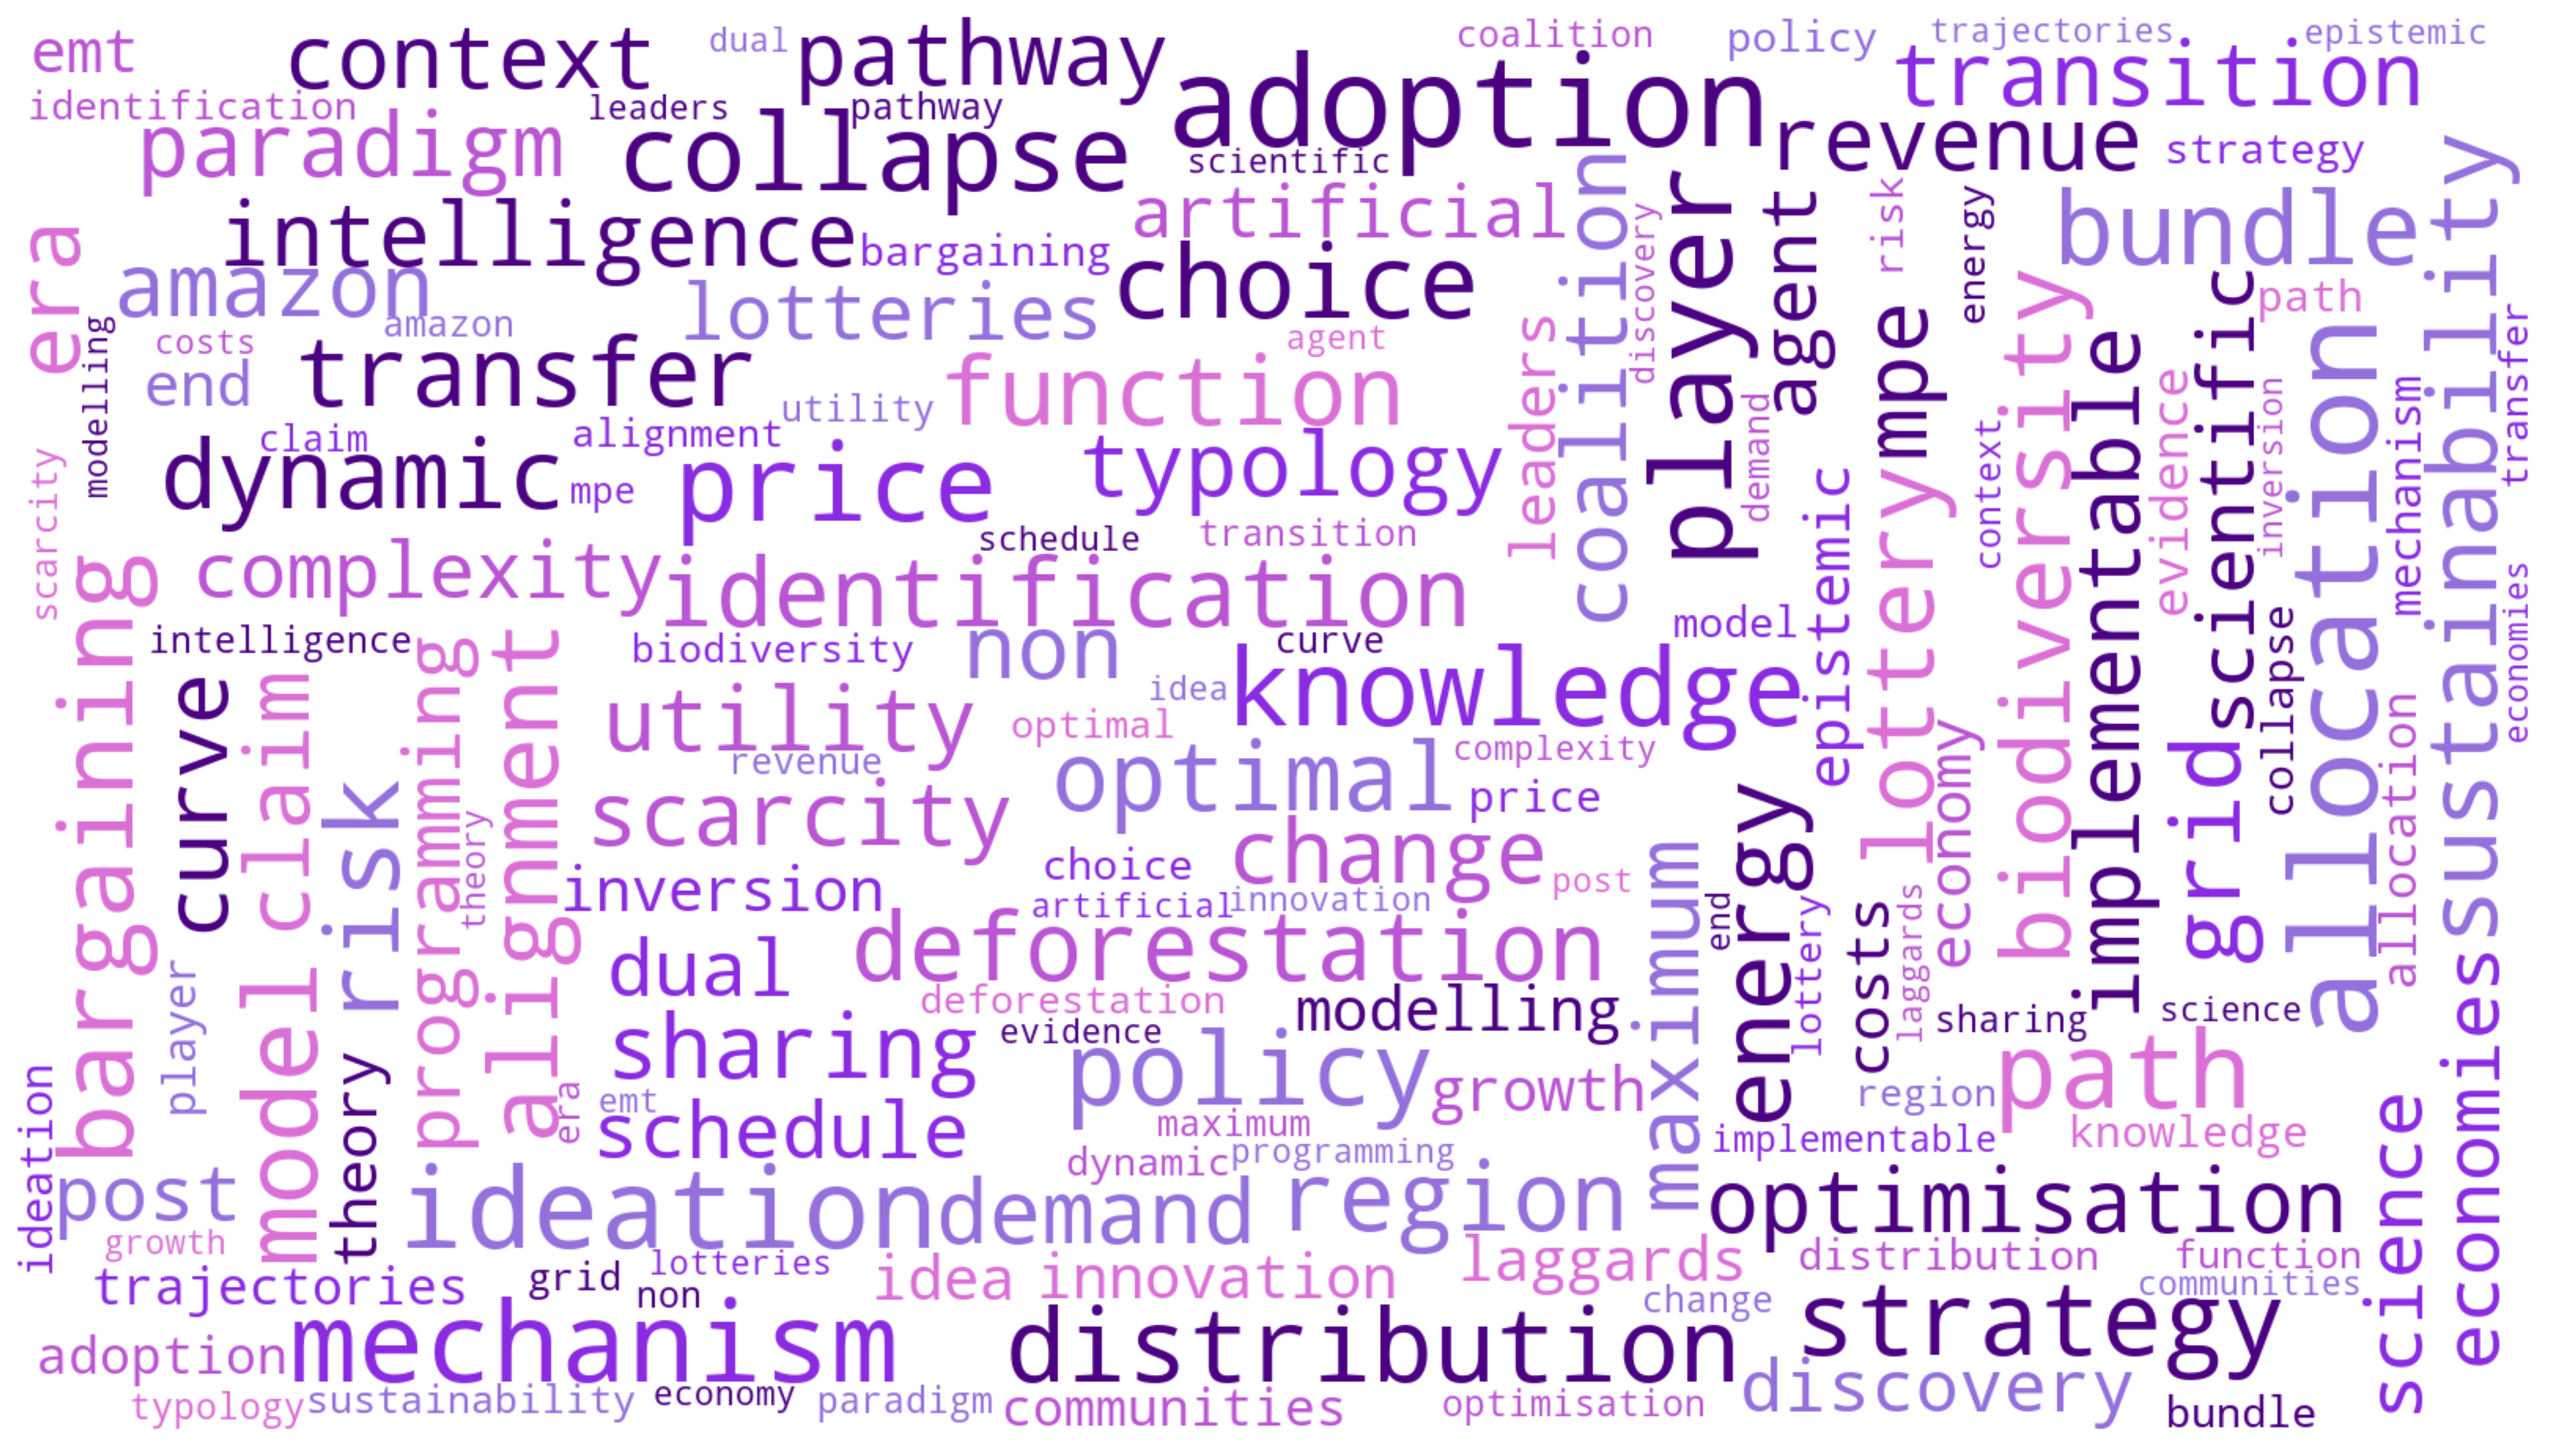
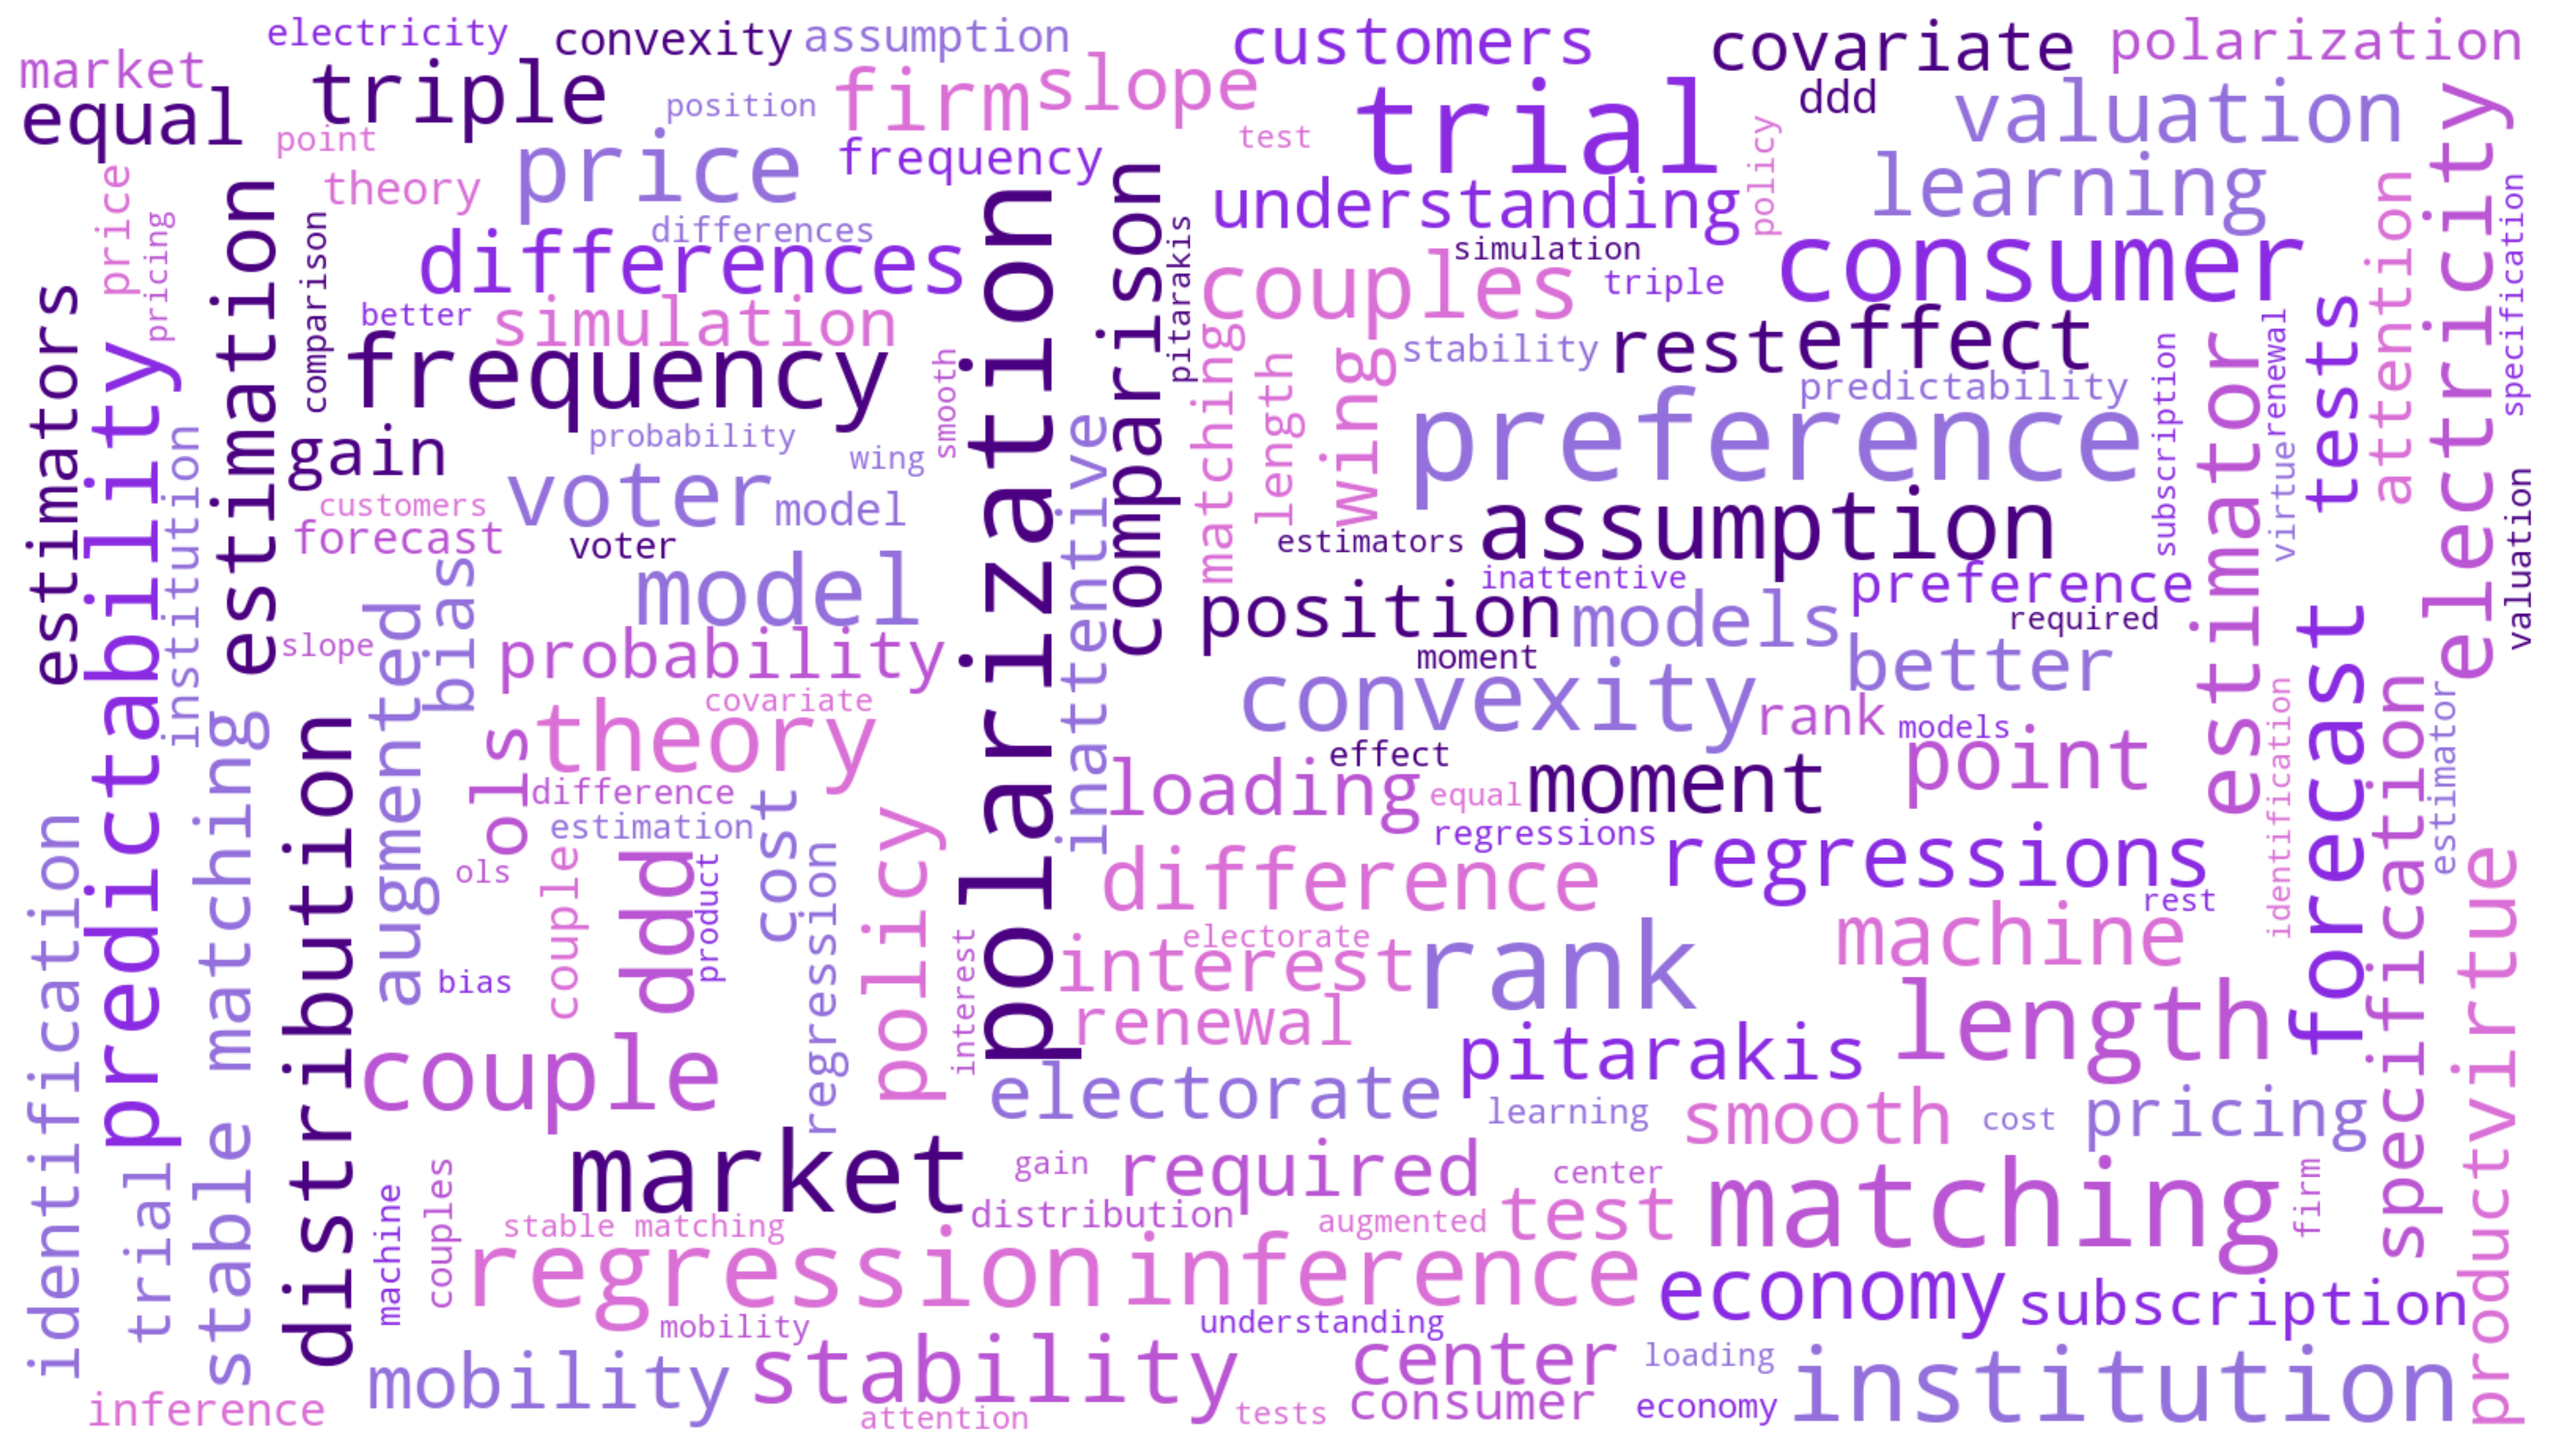
Gen audio

diff --git a/backend/scripts/daily_feed/arxiv_search_page.html b/backend/scripts/daily_feed/arxiv_search_page.html
@@ -151,9 +151,9 @@
 
     <div class="columns">
       <div class="column is-two-thirds-tablet">
-        <p style="margin-bottom: .5em">Query: <a href="/search/advanced?terms-0-operator=AND&amp;terms-0-term=&amp;terms-0-field=title&amp;classification-physics_archives=all&amp;classification-include_cross_list=include&amp;date-year=&amp;date-filter_by=date_range&amp;date-from_date=2025-07-09&amp;date-to_date=2025-07-10&amp;date-date_type=submitted_date&amp;abstracts=show&amp;size=50&amp;order=-submitted_date&amp;start=1000">order: -submitted_date; size: 50; page_start: 1000; date_range: from 2025-07-09 to 2025-07-10; include_cross_list: True</a></p>
+        <p style="margin-bottom: .5em">Query: <a href="/search/advanced?terms-0-operator=AND&amp;terms-0-term=&amp;terms-0-field=title&amp;classification-physics_archives=all&amp;classification-include_cross_list=include&amp;date-year=&amp;date-filter_by=date_range&amp;date-from_date=2025-07-10&amp;date-to_date=2025-07-11&amp;date-date_type=submitted_date&amp;abstracts=show&amp;size=50&amp;order=-submitted_date&amp;start=1000">order: -submitted_date; size: 50; page_start: 1000; date_range: from 2025-07-10 to 2025-07-11; include_cross_list: True</a></p>
         <div class="buttons">
-          <a class="button is-link" href="/search/advanced?terms-0-operator=AND&amp;terms-0-term=&amp;terms-0-field=title&amp;classification-physics_archives=all&amp;classification-include_cross_list=include&amp;date-year=&amp;date-filter_by=date_range&amp;date-from_date=2025-07-09&amp;date-to_date=2025-07-10&amp;date-date_type=submitted_date&amp;abstracts=show&amp;size=50&amp;order=-submitted_date&amp;start=1000">Refine query</a><a class="button" href="/search/advanced">New search</a>
+          <a class="button is-link" href="/search/advanced?terms-0-operator=AND&amp;terms-0-term=&amp;terms-0-field=title&amp;classification-physics_archives=all&amp;classification-include_cross_list=include&amp;date-year=&amp;date-filter_by=date_range&amp;date-from_date=2025-07-10&amp;date-to_date=2025-07-11&amp;date-date_type=submitted_date&amp;abstracts=show&amp;size=50&amp;order=-submitted_date&amp;start=1000">Refine query</a><a class="button" href="/search/advanced">New search</a>
         </div>
       </div>
       <div class="column is-one-third-tablet is-hidden-mobile">

diff --git a/backend/scripts/daily_feed/copy_to_frontend.py b/backend/scripts/daily_feed/copy_to_frontend.py
@@ -19,6 +19,13 @@ from datetime import datetime, timedelta
 import glob
 import re
 
+# Import audio generation modules
+from kokoro import KPipeline
+import soundfile as sf
+
+# Initialize the audio pipeline
+audio_pipeline = KPipeline(lang_code='a')
+
 def get_frontend_public_dir():
     """Get the path to the frontend's public directory."""
     # From the script location: backend/scripts/daily_feed/
@@ -87,8 +94,69 @@ def extract_summary_title_and_phrase(markdown_content: str, filename: str):
     
     return 'Summary', None
 
-def read_summary_files_with_metadata(summaries_dir: Path, phrases_summary_data):
-    """Read all markdown summary files and return their contents with paper counts."""
+def clean_content_for_audio(content: str):
+    """Remove hyperlinks and other unwanted formatting from content for audio generation."""
+    if not content:
+        return ""
+    
+    # Remove markdown hyperlinks in format [text](url)
+    cleaned_content = re.sub(r'\[([^\]]+)\]\([^\)]+\)', r'\1', content)
+    
+    # Remove any remaining markdown formatting that might interfere with audio
+    # Remove headers (# ## ###)
+    cleaned_content = re.sub(r'^#+\s+', '', cleaned_content, flags=re.MULTILINE)
+    
+    # Remove bold/italic formatting
+    cleaned_content = re.sub(r'\*\*([^*]+)\*\*', r'\1', cleaned_content)
+    cleaned_content = re.sub(r'\*([^*]+)\*', r'\1', cleaned_content)
+    
+    # Remove extra whitespace and newlines
+    cleaned_content = re.sub(r'\n\s*\n', '\n\n', cleaned_content)
+    cleaned_content = cleaned_content.strip()
+    
+    return cleaned_content
+
+def generate_audio_for_summary(content: str, title: str, category_name: str, phrase: str, daily_feed_dir: Path):
+    """Generate audio file for a summary and return the relative path."""
+    try:
+        # Clean the content for audio generation
+        cleaned_content = clean_content_for_audio(content)
+        
+        if not cleaned_content:
+            print(f"  ⚠  No content to generate audio for: {title}")
+            return None
+        
+        # Create audio subdirectory
+        audio_dir = daily_feed_dir / "audio"
+        audio_dir.mkdir(parents=True, exist_ok=True)
+        
+        # Create a safe filename
+        safe_phrase = re.sub(r'[^\w\s-]', '', phrase or 'summary').strip()
+        safe_phrase = re.sub(r'[-\s]+', '_', safe_phrase)
+        safe_category = re.sub(r'[^\w\s-]', '', category_name).strip()
+        safe_category = re.sub(r'[-\s]+', '_', safe_category)
+        
+        audio_filename = f"{safe_category}_{safe_phrase}.wav"
+        audio_filepath = audio_dir / audio_filename
+        
+        # Generate audio
+        print(f"  🎵 Generating audio for: {title}")
+        generator = audio_pipeline([cleaned_content], voice='af_heart')
+        
+        for i, (gs, ps, audio) in enumerate(generator):
+            print(f"    Generated audio: gs={gs}, ps={ps}")
+            sf.write(str(audio_filepath), audio, 24000)
+            break  # We only have one text to process
+        
+        # Return relative path for frontend
+        return f"/daily_feed/audio/{audio_filename}"
+        
+    except Exception as e:
+        print(f"  ⚠  Error generating audio for {title}: {e}")
+        return None
+
+def read_summary_files_with_metadata(summaries_dir: Path, phrases_summary_data, category_name: str, daily_feed_dir: Path):
+    """Read all markdown summary files and return their contents with paper counts and audio."""
     summaries = []
     phrase_paper_counts = {}
     
@@ -114,11 +182,15 @@ def read_summary_files_with_metadata(summaries_dir: Path, phrases_summary_data):
                             normalized_phrase = phrase.replace(' ', '_')
                             paper_count = phrase_paper_counts.get(normalized_phrase)
                         
+                        # Generate audio for this summary
+                        audio_url = generate_audio_for_summary(content, title, category_name, phrase, daily_feed_dir)
+                        
                         summary_data = {
                             'content': content,
                             'title': title,
                             'phrase': phrase,
-                            'paper_count': paper_count
+                            'paper_count': paper_count,
+                            'audio_url': audio_url
                         }
                         summaries.append(summary_data)
                         
@@ -189,9 +261,9 @@ def generate_daily_feed_json(date: str):
         # Load phrases summary for this category
         phrases_summary_data = load_phrases_summary(source_category_dir)
         
-        # Read summaries with metadata
+        # Read summaries with metadata and generate audio
         summaries_dir = source_category_dir / "summaries"
-        summaries = read_summary_files_with_metadata(summaries_dir, phrases_summary_data)
+        summaries = read_summary_files_with_metadata(summaries_dir, phrases_summary_data, category_name, daily_feed_dir)
         
         # Copy word cloud image
         word_cloud_url = copy_images_to_frontend(source_category_dir, daily_feed_dir, category_name.replace(' ', '_').replace('(', '').replace(')', '').replace('.', ''))
@@ -212,6 +284,7 @@ def generate_daily_feed_json(date: str):
     categories_data.sort(key=lambda x: x['paper_count'] or 0, reverse=True)
     print(f"📊 Categories sorted by paper count (largest to smallest)")
     print(f"📊 Summaries within each category also sorted by paper count (largest to smallest)")
+    print(f"🎵 Audio files generated for all summaries")
     
     # Get total papers from pipeline summary
     total_papers = None

diff --git a/backend/scripts/daily_feed/gen_audio.py b/backend/scripts/daily_feed/gen_audio.py
@@ -1,0 +1,21 @@
+from kokoro import KPipeline
+import soundfile as sf
+pipeline = KPipeline(lang_code='a')
+
+texts = [
+    """
+It all began on 1 July, when an asteroid-hunting telescope in Chile spotted a tiny white dot hurtling against the background stars. The online chatter began almost immediately as astronomers tracked the object in earlier images and amateur observations. Soon it was clear the dot was moving through the Solar System so fast—209,000 kilometers per hour—that it could not be orbiting the Sun. That night, says Michigan State University (MSU) astronomer Darryl Seligman, “I woke up at 1 a.m. [and] saw messages saying, ‘Oh, this is for sure interstellar.’” The next day, he and his colleagues began typing up the first paper characterizing the new intruder.
+
+3l/ATLAS, named for the instrument that found it, the Asteroid Terrestrial-impact Last Alert System (ATLAS) survey telescope, is just the third object of its kind ever spotted. Like its predecessors, 1I/‘Oumuamua in 2017 and 2I/Borisov in 2019, it is a stray leftover from the formation of exoplanets around other stars and will vanish back into interstellar space within months. As a result, astronomers around the world are swiveling ground- and space-based telescopes toward the object, hoping to catch it while it remains visible, and trying to make sense of early clues. “I couldn’t really work on Thursday,” says University of Cologne astronomer Susanne Pfalzner, a theoretician specializing in stellar and planetary formation. “I was just jumping about.”
+
+Beyond a few basics, ATLAS remains mostly a mystery, but astronomers have already learned enough to intrigue them. For one, the object is conspicuously bright. ATLAS was discovered while it was still 670 million kilometers from the Sun, out near the orbit of Jupiter—more than five times farther than ‘Oumuamua was when it was first spotted. This suggests ATLAS might be as large as 20 kilometers across, much larger than ‘Oumuamua (thought to be a cigar-shaped chunk 400 meters long) and Borisov (975 meters wide). However, estimates of the object’s size come with an asterisk. If ATLAS is outgassing like a comet, it might be surrounded by a haze that makes it appear larger than it really is.
+    """
+]
+
+def generate_audio(texts, titles, output_dir="./"):
+    generator = pipeline(texts, voice='af_heart')
+    for i, ((gs, ps, audio), title) in enumerate(zip(generator, titles)):
+        print(i, gs, ps)
+        sf.write(f'{output_dir}/{title}.wav', audio, 24000)
+
+generate_audio(texts, ["titles"])
